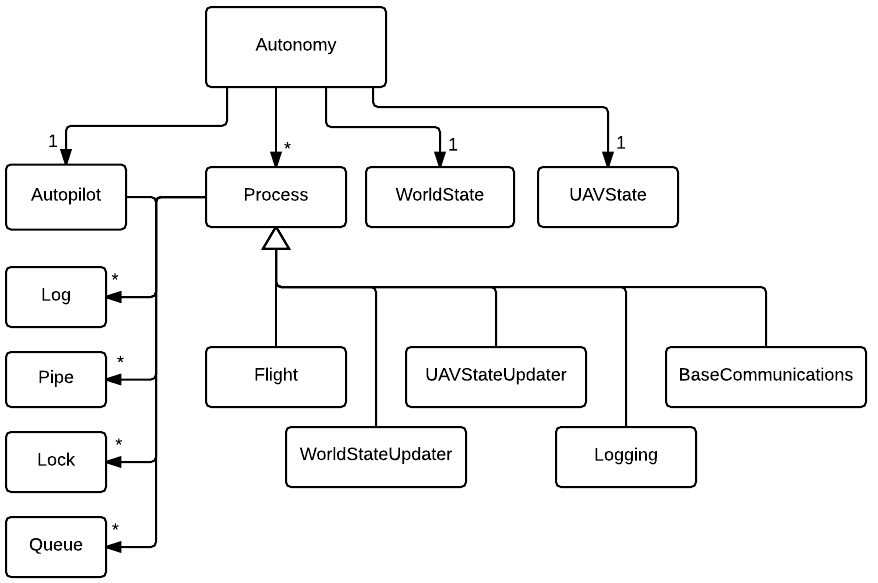
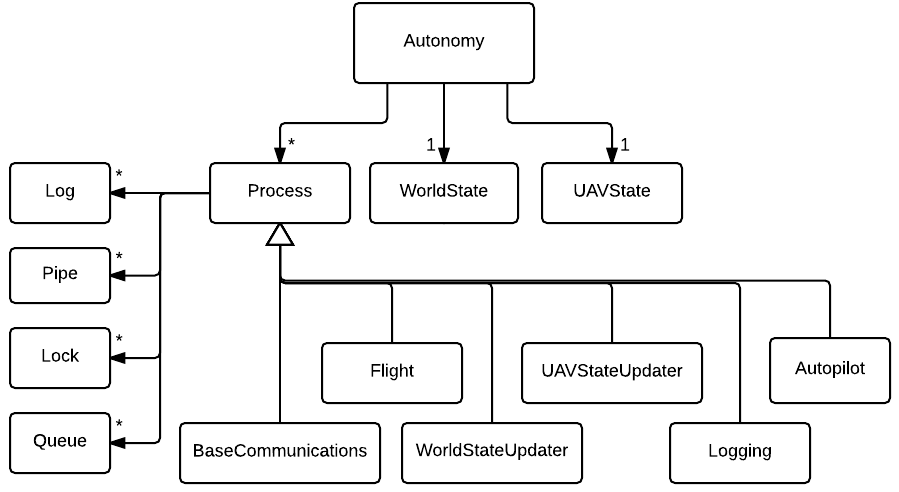
Added interaction diagram to Autonomy

Changed region(s): [[0.0, 0.0, 1.0, 1.0]]

diff --git a/Latex/autonomy.tex b/Latex/autonomy.tex
@@ -38,7 +38,7 @@ Figure \ref{fig:softwarearchitecture} shows the autonomous flight and intelligen
 	\item Monitoring status of aircraft such as position, velocity (uavstate.py)
 	\item Monitoring status of world such position of obstacles, waypoints (worldstate.py)
 	\item Logging of flight conditions, sensing and motion (logging.py)
-	\item Unsure what interface.py does
+	\item Communicate with base station (interface.py)
 \end{itemize}}
 
 \begin{figure}[!ht]
@@ -48,6 +48,12 @@ Figure \ref{fig:softwarearchitecture} shows the autonomous flight and intelligen
 	\label{fig:softwarearchitecture}
 \end{figure}
 
+\begin{figure}[!ht]
+	\centering
+	\includegraphics[width=350pt]{\IMAGEPATH /Diagrams/interaction}
+	\caption{Interaction between software modules}
+	\label{fig:softwareinteraction}
+\end{figure}
 \subsection{Testing}
 \red{Software in the Loop}
 
